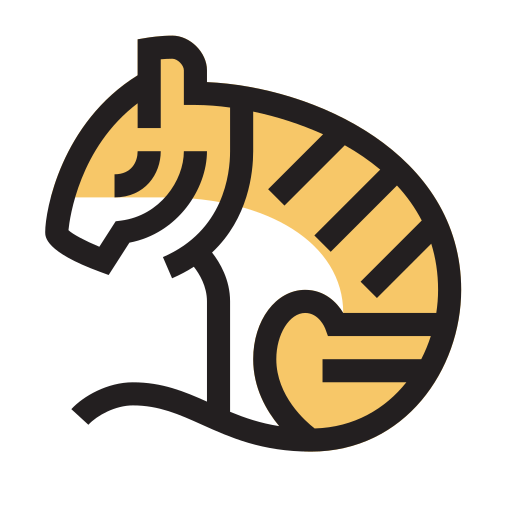
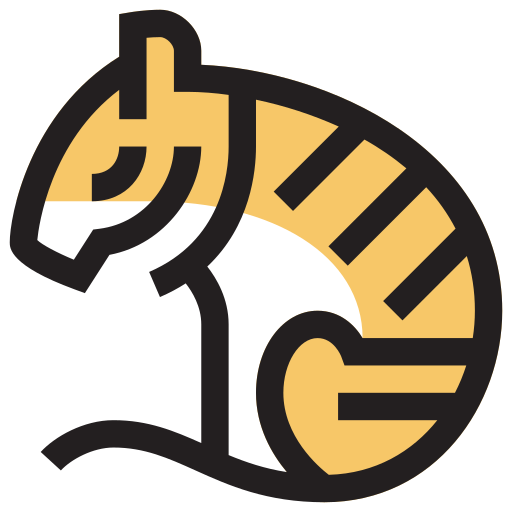
fix: updating SVGs, removing comments

diff --git a/src/components/ChangesetModal.tsx b/src/components/ChangesetModal.tsx
@@ -5,6 +5,7 @@ import { Button } from "@heroui/button";
 import ChangesetTagTable from "./ChangesetTags";
 import { useChangesetStore } from "../stores/useChangesetStore";
 import { Alert } from "@heroui/alert";
+import link from "../assets/link.svg";
 
 interface ChangesetModalProps {
   latestChangeset: number;
@@ -49,9 +50,14 @@ const ChangesetModal: React.FC<ChangesetModalProps> = ({
               as={Link}
               href={`https://www.openstreetmap.org/changeset/${latestChangeset}`}
               target="_blank"
-              // className="text-white"
-              isExternal
-              showAnchorIcon
+              endContent={
+                <img
+                  src={link}
+                  alt="external"
+                  className="h-5 w-5 fill-success"
+                />
+              }
+              // showAnchorIcon
             >
               View
             </Button>

diff --git a/src/components/Navbar.tsx b/src/components/Navbar.tsx
@@ -14,7 +14,7 @@ import { Tooltip } from "@heroui/tooltip";
 import { Link } from "@heroui/link";
 import { useOsmAuthContext } from "../contexts/useOsmAuth";
 import { OsmWay } from "../objects";
-import logo from "../assets/tiger.svg";
+import logo from "../assets/tiger_outline.svg";
 import menu from "../assets/menu.svg";
 import link from "../assets/link.svg";
 import upload from "../assets/upload.svg";
@@ -170,7 +170,7 @@ const MainNavbar: React.FC<NavbarProps> = ({
   return (
     <>
       <Navbar maxWidth="full" position="static" className="shadow">
-        <NavbarBrand className="gap-4" as={Link} href="/tigerking/">
+        <NavbarBrand className="gap-4 flex-grow-0" as={Link} href="/tigerking/">
           <img src={logo} alt="Logo" className="w-8 h-8" />
           <h1 className="text-xl font-bold text-black dark:text-white">
             TIGER King
